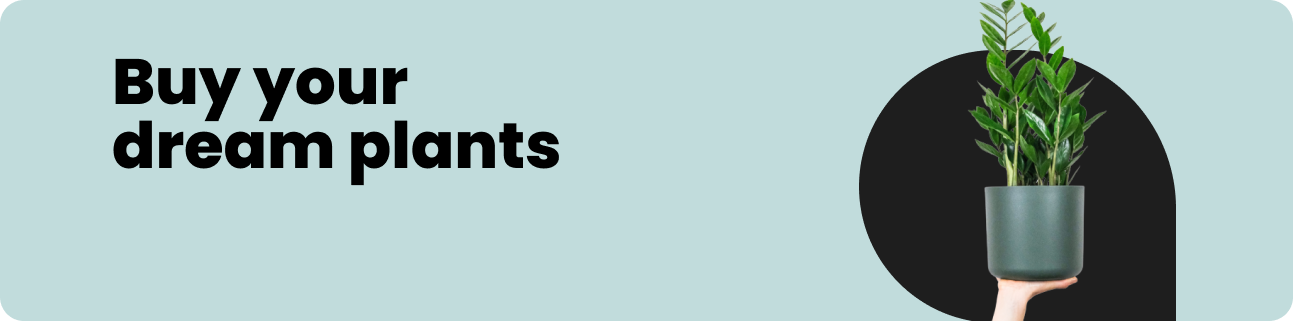
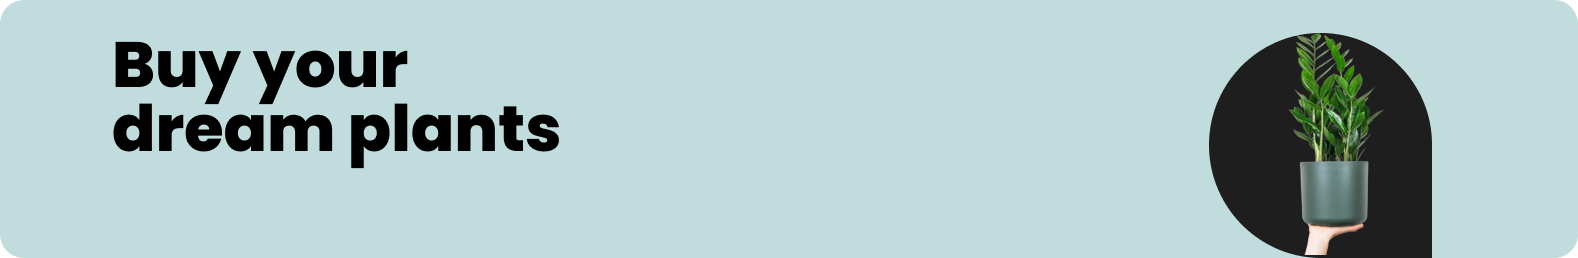
add to cart

Changed region(s): [[0.6497, 0.0, 0.9281, 1.0], [0.0619, 0.155, 0.4331, 0.6512]]

diff --git a/client/src/context/cart.context.jsx b/client/src/context/cart.context.jsx
@@ -24,8 +24,9 @@ function CartProvider({ children }) {
     axios
       .get(`${API_URL}/api/cart`)
       .then((response) => {
-        setCartProducts(response.data);
         console.log("Cart Data fetched from server", response.data);
+        setCartProducts(response.data);
+       
       })
       .catch((error) => {
         console.error("Error fetching cart data:", error);
@@ -39,8 +40,29 @@ function CartProvider({ children }) {
         quantity,
       })
       .then((response) => {
-        setCartProducts(response.data);
-        console.log("added to cart", response.data );
+        setCartProducts((prevCart) => {
+          // Ensure prevCart is an array
+          const cartArray = Array.isArray(prevCart) ? prevCart : [];
+
+          // Check if the product is already in the cart
+          const existingProduct = cartArray.find(
+            (item) => item.id === productId
+          );
+
+          if (existingProduct) {
+            // If the product is already in the cart, update its quantity
+            return cartArray.map((item) =>
+              item.id === productId
+                ? { ...item, quantity: item.quantity + quantity }
+                : item
+            );
+          } else {
+            // If the product is not in the cart, add it
+            return [...cartArray, { id: productId, quantity }];
+          }
+        });
+
+        console.log("added to cart", response.data);
       })
       .catch((error) => {
         console.error("Error adding to cart:", error);
@@ -48,11 +70,14 @@ function CartProvider({ children }) {
   };
 
   const removeFromCart = (productId) => {
+    console.log("Removing from cart:", productId);
+
     axios
       .put(`${API_URL}/api/cart`, {
         productId,
       })
       .then((response) => {
+        console.log("Server response:", response.data);
         setCartProducts(response.data);
       })
       .catch((error) => {
@@ -61,22 +86,47 @@ function CartProvider({ children }) {
   };
 
   const clearCart = () => {
-   axios.patch(`${API_URL}/api/cart`)
-   .then((response)=> {
-    setCartProducts(response.data);
-   })
-    .catch ((error) => {
-      console.error("Error clearing cart:", error);
-    })
+    axios
+      .patch(`${API_URL}/api/cart`)
+      .then((response) => {
+        setCartProducts(response.data);
+      })
+      .catch((error) => {
+        console.error("Error clearing cart:", error);
+      });
   };
 
   const getProductQuantity = (productId) => {
-    const cartProduct = cartProducts.find((product) => product.id === productId);
+    const cartProduct = cartProducts.find(
+      (product) => product.id === productId
+    );
     return cartProduct ? cartProduct.quantity : 0;
   };
 
+  const getProductData = (productId) => {
+   return axios
+   .get(`${API_URL}/api/products/${productId}`)
+    .then((response)=> {
+      console.log("Get product data for total", response.data);
+      response.data})
+    .catch((error) => {
+      console.error("Error fetching product data:", error);
+      return null;
+    })
+    }
+  
   const getTotalCost = () => {
-    return cartProducts.reduce((total, product) => total + product.price * product.quantity, 0);
+
+    let total = 0;
+    cartProducts.forEach((cartItem) => {
+      // Assuming cartItem.id is the product ID
+      const productData = getProductData(cartItem.id);
+      
+      // Assuming productData.price is the product price
+      total += productData ? productData.price * cartItem.quantity : 0;
+    });
+  
+    return total;
   };
 
   const contextValue = {

diff --git a/client/src/components/CartProduct.jsx b/client/src/components/CartProduct.jsx
@@ -1,44 +1,51 @@
 import Button from "react-bootstrap/Button";
 import React, { useState, useEffect } from "react";
 import { useCart } from "../context/cart.context";
+import { useParams } from "react-router-dom";
 import axios from "axios";
 
 const API_URL = "http://localhost:4000";
 
-function CartProduct({ productId }) {
+function CartProduct({ id, quantity }) {
   const { getProductQuantity, removeFromCart } = useCart();
   const [productData, setProductData] = useState(null);
+  // const { productId } = useParams();
 
   useEffect(() => {
     axios
-      .get(`${API_URL}/api/products/${productId}`)
+      .get(`${API_URL}/api/products/${id}`)
       .then((response) => {
         setProductData(response.data);
-        console.log("Extract product details for cart item", response.data);
+        // /console.log("Extract product details for cartProduct", response.data);
       })
       .catch((error) => {
         console.error("Error fetching product details:", error);
       });
-  }, [productId]);
+  }, [id]);
 
   if (!productData) {
     // Data is still being loaded
     return <p>Loading...</p>;
   }
 
-  const quantityInCart = getProductQuantity(productId);
+  const quantityInCart = getProductQuantity(id);
+
   const handleRemoveFromCart = () => {
-    removeFromCart(productId);
+    console.log("Removing product with id:", id);
+    removeFromCart(id);
   };
 
   return (
     <>
-      <h3>{productData.title}</h3>
-      <p>Quantity in Cart: {quantityInCart}</p>
-      <p>Euro {(quantityInCart * productData.price).toFixed(2)}</p>
+    <div className="cart-product">
+      <img src={productData.imageUrl} width={60}/>
+      <p>{productData.name}</p>
+      <p>Quantity: {quantityInCart}</p>
+      <p>Price: {(quantityInCart * productData.price).toFixed(2)} €</p>
       <Button size="sm" onClick={handleRemoveFromCart}>
         Remove
       </Button>
+      </div>
       <hr></hr>
     </>
   );

diff --git a/client/src/components/Navbar.jsx b/client/src/components/Navbar.jsx
@@ -67,7 +67,6 @@ function NavbarComponent() {
               <span> Cart {productsCount}</span>
             </Nav.Link>
           </Nav>
-          {/* </Navbar.Collapse> */}
         </Container>
       </Navbar>
 
@@ -78,15 +77,16 @@ function NavbarComponent() {
         <Modal.Body>
           {cart.cartProducts.length > 0 ? (
             <>
-              <p> Items in your cart:</p>
+              <div>
               {cart.cartProducts.map((currentProduct, idx) => (
                 <CartProduct
                   key={idx}
-                  id={currentProduct.id}
+                  id={currentProduct.id} 
                   quantity={currentProduct.quantity}
                 ></CartProduct>
               ))}
-              <h1>Total: {cart.getTotalCost().toFixed(2)}</h1>
+              </div>
+              <h2>Total: {cart.getTotalCost().toFixed(2)}</h2>
               <Button variant="success" >
                 Checkout
               </Button>

diff --git a/client/src/App.css b/client/src/App.css
@@ -22,6 +22,8 @@ img.plant-image {
   border-radius: 10px;
   border: 1px solid #ccc;
   max-width: 35%;
+  position: absolute;
+  bottom: 0;
 }
 
 .filters {
@@ -43,9 +45,10 @@ img.plant-image {
   background-repeat: no-repeat;
   background-size: contain;
   background-position: center;
-  margin: 10px 30px;
-  height: 350px;
+  margin: 10px 15px;
+  height: 150px;
   flex-shrink: 0;
+  position: relative;
 }
 
 .explore-header h3 {
@@ -189,6 +192,18 @@ button.cart-add:hover {
   align-items: center;
   padding-top: 2rem;
   gap: 1rem;
+}
+
+.cart-product{
+  display: flex;
+  justify-content:space-between;
+  align-items: center;
+  gap: 1rem;
+
+}
+
+.cart-product p{
+  margin: 0;
 }
 
 .pages-links {

diff --git a/server/routes/cart.routes.js b/server/routes/cart.routes.js
@@ -40,7 +40,9 @@ router.post("/cart", (req, res)=> {
 // PUT: Delete product from cart
 router.put("/cart", (req, res) => {
   const { productId } = req.body;
-  const cart = req.session.cart || [];
+  console.log("Removing from cart on the server:", productId);
+
+ const cart = req.session.cart || [];
 
   // Remove the product from the cart
   const updatedCart = cart.filter((item) => item.productId !== productId);

diff --git a/client/src/pages/ProductDetailsPage.jsx b/client/src/pages/ProductDetailsPage.jsx
@@ -38,13 +38,8 @@ function ProductDetailsPage(props) {
   };
 
   const handleAddToCart = () => {
-    // const productToAdd = {
-    //   id: productId,
-    //   quantity: quantity,
-    // };
     // Use the addToCart function from the CartContext
     cart.addToCart(productId, quantity);
-    console.log("clicked", productId, quantity);
   };
 
   return (

diff --git a/client/src/pages/ProductsPage.jsx b/client/src/pages/ProductsPage.jsx
@@ -102,12 +102,10 @@ function ProductsPage() {
   return (
     <>
       <div className="explore-header">
-        <div>
           <Search
             className="search-bar"
             filterSearchHandler={searchProductList}
           />
-        </div>
       </div>
 
       <div className="filters">

diff --git a/client/src/components/ProductCard.jsx b/client/src/components/ProductCard.jsx
@@ -11,8 +11,7 @@ function ProductCard({ _id, name, imageUrl, price }) {
   const cart = useContext(CartContext);
 
   const handleAddToCart = () => {
-    cart.addToCart(_id);
-    console.log("clicked");
+    cart.addToCart(_id, 1);
     // Redirect to the cart page
     // history.push("/cart");
   };
